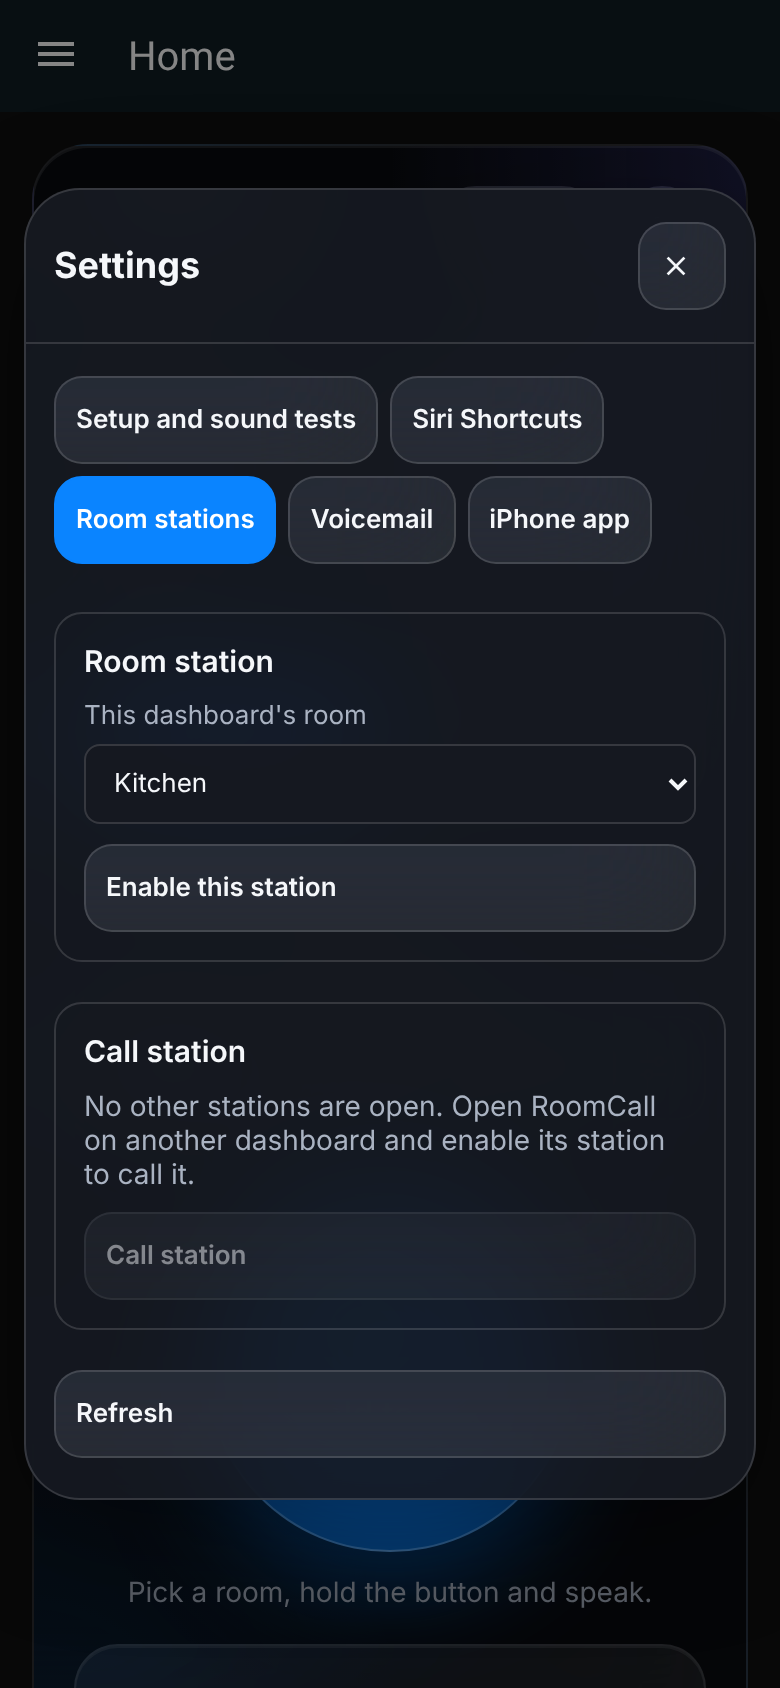
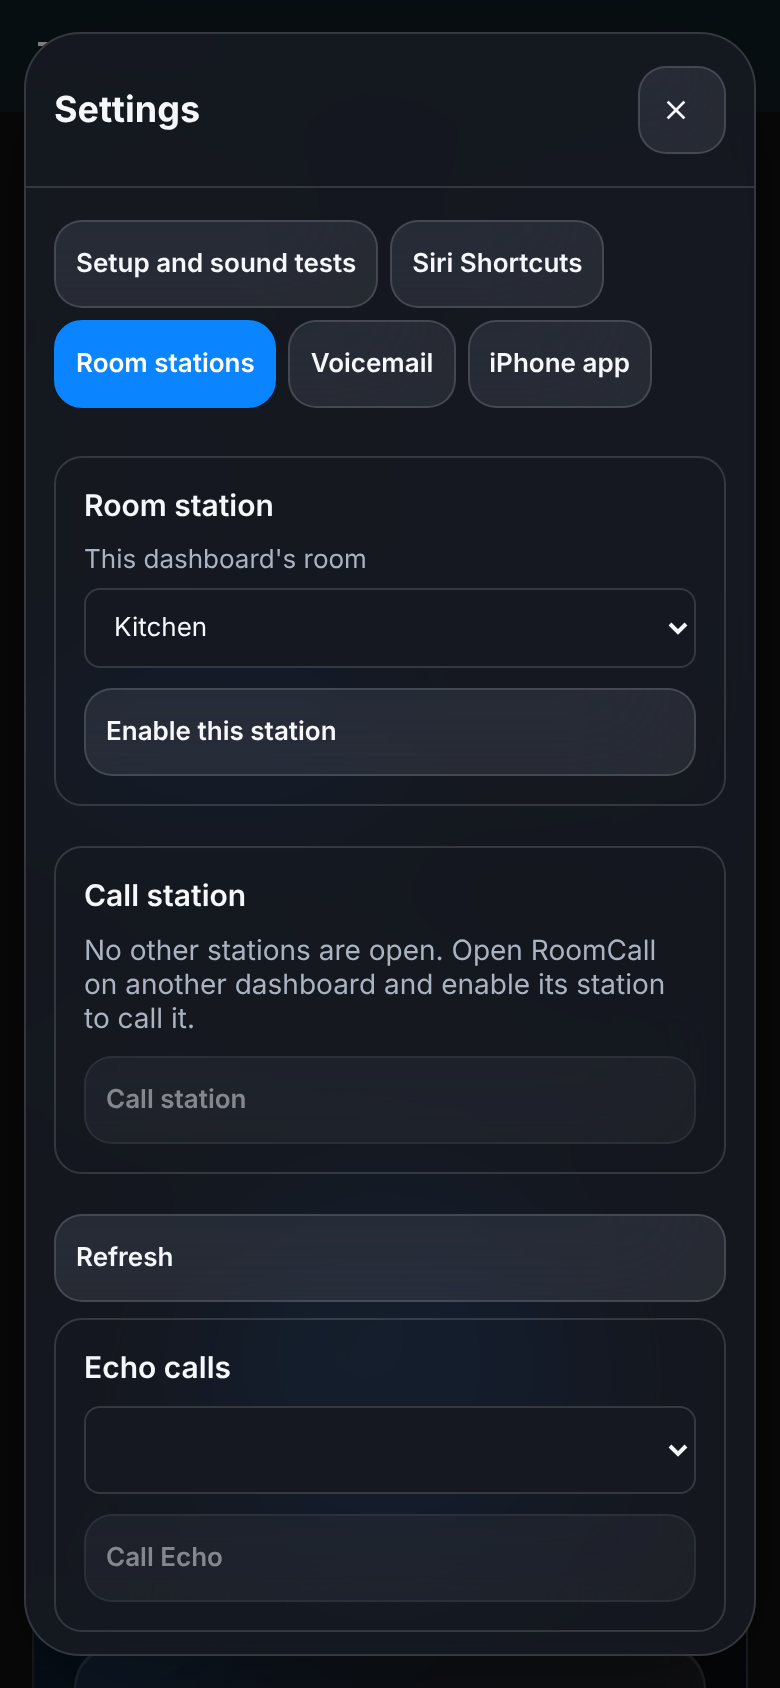
fix: clarify live call controls and refresh docs

diff --git a/custom_components/roomcall/frontend/roomcall-echo.js b/custom_components/roomcall/frontend/roomcall-echo.js
@@ -43,9 +43,19 @@ export class EchoClient {
   constructor(controls) {
     this.controls=controls;this.accepted=false;this.inflight=0;
     this.panel=document.createElement('div');controls.root.append(this.panel);
+    this.panel.className='panel-section';
+    this.heading=document.createElement('h3');this.panel.append(this.heading);
+    this.panel.append(this.controls.button('hangup',()=>{
+      this.controls.result.textContent=this.controls.t('ended');this.close();
+    }));
   }
   async call(speaker,invitation) {
     try {
+      const peer=this.controls.capabilities.echoes?.find(peer=>peer.speaker===speaker);
+      this.heading.textContent=`${this.controls.t('echo_calls')} · ${peer?.name||speaker}`;
+      this.controls.card._stop({preventDefault(){}});
+      this.controls.card.setAttribute('echo-call','');
+      this.controls.result.textContent=this.controls.t('calling');
       this.context=new AudioContext();await this.context.resume();
       if(this.closed)return;
       this.stream=await navigator.mediaDevices.getUserMedia({audio:{
@@ -85,15 +95,13 @@ export class EchoClient {
       this.controls.result.textContent=this.controls.t(event.reason==='ended'?'ended':event.reason);
       this.close();
     } else {
-      this.controls.result.textContent=this.controls.t('echo_ringing');
-      this.panel.replaceChildren(this.controls.button('hangup',()=>{
-        this.controls.result.textContent=this.controls.t('ended');this.close();
-      }));
+      this.controls.result.textContent=this.controls.t(event.type==='ringing'?'echo_ringing':'calling');
     }
   }
   async close() {
     if(this.closed)return;
     this.closed=true;this.accepted=false;
+    this.controls.card.removeAttribute('echo-call');
     this.node?.disconnect();
     this.stream?.getTracks().forEach(track=>track.stop());
     this.unsubscribe?.();this.panel.remove();

diff --git a/custom_components/roomcall/frontend/roomcall-controls.js b/custom_components/roomcall/frontend/roomcall-controls.js
@@ -24,6 +24,10 @@ export class RoomCallControls {
       .communication ol { min-width:0; margin:0; padding-inline-start:24px; overflow-wrap:anywhere; }
       .communication button { min-height:44px; min-width:44px }
       .communication button:disabled { opacity:.5; cursor:not-allowed }
+      :host([echo-call]) .recipients,:host([echo-call]) .toggles,
+      :host([echo-call]) .destination,:host([echo-call]) .wrap,:host([echo-call]) .status,
+      :host([echo-call]) .communication form,:host([echo-call]) .communication nav[data-toolbar] {
+        display:none!important }
       .communication nav[data-toolbar] { display:grid; grid-template-columns:repeat(3,minmax(0,1fr)) 44px; gap:4px;
         background:var(--secondary-background-color,var(--card-background-color)); padding:4px; border-radius:14px; }
       .communication nav[data-toolbar] button { justify-content:center; padding:6px; border-color:transparent; border-radius:10px; }

diff --git a/scripts/qa_communication.py b/scripts/qa_communication.py
@@ -516,7 +516,14 @@ def check_echo_calls(browser, errors) -> None:
         assert card.get_by_role("dialog").evaluate("e=>e.scrollWidth<=e.clientWidth")
         card.get_by_role("button", name="Call Echo", exact=True).click()
         expect(card.locator(".result")).to_contain_text("Action button")
+        expect(card.locator(".destination")).to_be_hidden()
+        expect(card.locator(".recipients")).to_be_hidden()
+        expect(card.locator("button.talk")).to_be_hidden()
+        expect(card.locator(".communication h3").filter(has_text="Basement Echo")).to_be_visible()
         assert page.evaluate("echoQA.frames.length") == 0
+        if width == 390:
+            card.locator(".result").scroll_into_view_if_needed()
+            page.screenshot(path=OUT / "ha-echo-call.png")
         page.evaluate("""() => {
           echoQA.cb({type:'accepted',id:'echo-call'});
           const call=document.querySelector('roomcall-card')._communication.echoCall;

diff --git a/docs/screenshots.md b/docs/screenshots.md
@@ -1,7 +1,7 @@
 # Screenshots and validation
 
-Browser captures were refreshed from **RoomCall 0.22.1** on
-2026-10-25. Native captures retain the compatible **native 0.20.0 / build 4** client.
+Browser captures were refreshed from **RoomCall 0.23.0** on
+2026-10-26. Native captures retain the compatible **native 0.20.0 / build 4** client.
 Home Assistant captures include
 the Glass interface and receiver/TV interruption previews and restoration status. The captures illustrate real rendered interfaces with sample data;
 they do not demonstrate a particular household, physical speaker delivery or

diff --git a/docs/communication.md b/docs/communication.md
@@ -36,6 +36,8 @@ stock Amazon firmware and an ordinary ESPHome media player are insufficient.
    and disconnect. No audio is recorded. Calls are limited to 15 minutes and end
    if the connection stops delivering audio for five seconds after acceptance.
 
+![Echo call waiting for its Action button, with sample data](assets/ha-echo-call.png)
+
 For calls initiated at the Echo, first enable a browser **Room station** in the
 phone's or tablet's current room and leave the page open in the foreground. Say
 “Alexa, RoomCall Kitchen” at the paired Echo. With exactly one open Kitchen station,
